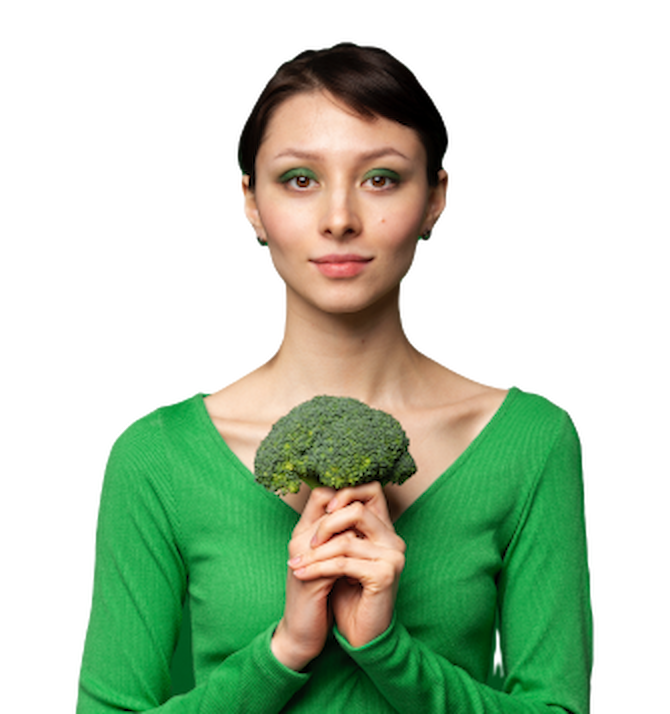
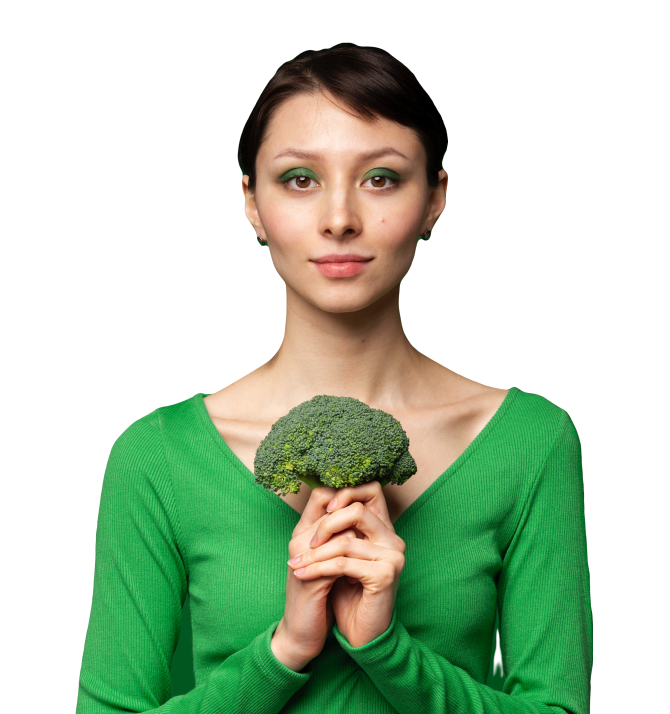
Update 2x img css and <picture>
Чомусь не показується коректно картинка на десктопі

diff --git a/src/partials/we-will-call-you.html b/src/partials/we-will-call-you.html
@@ -1,34 +1,51 @@
-<section class="we-will-call-you container">
-
-  <div class="we-will-container container">
-    <h1 class="we-will-title">Fresh Harvest Box has got you covered</h1>
-    <div class="input-container">
-      <p class="we-will-paragraf">Our boxes are packed with delicious, nutritious vegetables, perfect for anyone looking
-        to eat healthier or support local
-        farmers. Order your box today and start enjoying the best that nature has to offer!</p>
-      <div class="container-input">
-        <form class="we-will-form">
-            <input
-            pattern="10"
-            placeholder="+380 ()" 
-            name="user-tel" 
-            class="we-will-input" 
-            id="user-tel" />
-            <button type="submit"  class="input-button">
-              Recall
-            </button>
-        </form>
+<section class="we-will-call-you">
+  <div class="container we-will-call-youu">
+    <div class="we-will-container container">
+      <h1 class="we-will-title">Fresh Harvest Box has got you covered</h1>
+      <div class="input-container">
+        <p class="we-will-paragraf">Our boxes are packed with delicious, nutritious vegetables, perfect for anyone looking
+          to eat healthier or support local
+          farmers. Order your box today and start enjoying the best that nature has to offer!</p>
+        <div class="container-input">
+          <form class="we-will-form">
+              <input
+              pattern="10"
+              placeholder="+380 ()" 
+              name="user-tel" 
+              class="we-will-input" 
+              id="user-tel" />
+              <button type="submit"  class="input-button">
+                Recall
+              </button>
+          </form>
+        </div>
       </div>
     </div>
+    <picture class="we-will-picture">
+      <source 
+        media="(max-width:767px)"
+        srcset="../img/we-will-call-you/1wwc_girl_mob.png    1x,
+                ../img/we-will-call-you/1x2wwc_girl_mob.png  2x
+                " 
+        width="335"
+        height="357" />
+      <source 
+        media="(min-width:768px) and (max-width:1279px)"
+        srcset="../img/we-will-call-you/2wwc_girl_mob.png   1x,
+                ../img/we-will-call-you/2x2wwc_girl_mob.png 2x
+                " 
+        width="629"
+        height="446" />
+      <source 
+        media="(min-width:1280px)" 
+        srcset="../img/we-will-call-you/3wwc_girl_mob.png   1x,
+                ../img/we-will-call-you/3x2wwc_girl_mob.png 2x
+                " 
+        width="525"
+        height="499" /> 
+      <img 
+      src="../img/we-will-call-you/1wwc_girl_mob.png" class="img-container" 
+      />
+    </picture>
   </div>
-  <picture class="hero-main-picture">
-    <source media="(min-width:320px) and (max-width:767px)"
-      srcset="../img/we-will-call-you/1wwc_girl_mob.png    1x, ../img/we-will-call-you/1x2wwc_girl_mob.png 2x " width="389"
-      height="388" />
-    <source media="(min-width:768px) and (max-width:1279px)"
-      srcset="../img/we-will-call-you/2wwc_girl_mob.png    1x, ../img/we-will-call-you/2x2wwc_girl_mob.png 2x " width="389" height="388" />
-    <source media="(min-width:1280px)" srcset="../img/we-will-call-you/3wwc_girl_mob.png 1x, ../img/we-will-call-you/3x2wwc_girl_mob.png 2x" width="422"
-      height="460" /> <img srcset=" ./img/hero/mobile-img-girl.png    1x, ./img/hero/mobile-img-girl-2x.png 2x "
-      src="./img/hero/mobile-img-girl.png" width="230" height="228" alt="img-girl" class="hero-girl" />
-  </picture>
 </section>

diff --git a/src/css/we-will-call-you.css b/src/css/we-will-call-you.css
@@ -1,4 +1,4 @@
-.we-will-call-you {
+.we-will-call-youu {
   display: flex;
   flex-direction: column;
   align-items: center;
@@ -6,6 +6,7 @@
 
 
 .we-will-container {
+  margin-top: 80px;
   display: flex;
   flex-direction: column;
   justify-content: center;
@@ -73,7 +74,7 @@
   height: 48px;
   position: relative;
   border-radius: 100px;
-    border: 1px solid #141414;
+    border: 1px solid var(--primary-text-color);
     opacity: 0.30000001192092896;
 }
 
@@ -85,6 +86,7 @@
 
 
 .img-container {
+  margin-bottom: 80px;
   padding-top: 31px;
   border-radius: 40px;
   background: #FAF3E7;
@@ -92,28 +94,29 @@
   background-size: 45px 45px;
 }
 
+.we-will-picture {
+  width: 335px;
+}
 
 
 @media screen and (min-width: 320px) and (max-width: 374px) {
   .we-will-input {
     width: 300px;
   }
-
-  .img-container{
+  .we-will-picture {
     width: 300px;
-  }
+}
+
 }
 
 @media screen and (min-width: 768px) and (max-width: 1279px) {
-  .we-will-call-you {
-  }
 
   .we-will-input{
     width: 350px;
   }
   .we-will-container{
     width: 524px;
-    padding-top: 100px;
+    margin-top: 100px;
   }
 
   .we-will-title{
@@ -133,42 +136,33 @@
     margin: 0;
   }
 
-    .img-block{
-      display: none;
-    }
 
-    .img-block3{
-      display: none;
-    }
-    .img-block2 {
+
+    .img-block {
       display: flex;
       justify-content: center;
       align-items: center;
       padding-bottom: 173px;
-    }
+    } 
   
-    .img-container{
-      display: none;
-    }
 
-    .img-container3{
-      display: none;
-    }
-    .img-container2 {
+
+    .img-container {
       padding-top: 17px;
       padding-left: 38px;
       padding-right: 38px;
-      border-radius: 40px;
-      background: #FAF3E7;
-      background-image: radial-gradient(circle at 5px 5px, rgba(161, 196, 135, 0.3) 2.7px, transparent 0);
-      background-size: 45px 45px;
+      margin-bottom: 173px;
     }
 
+
+    .we-will-picture {
+      width: 629px;
+    }
 
 }
 
 @media screen and (min-width: 1280px) {
-  .we-will-call-you{
+  .we-will-call-youu{
     flex-direction: row;
     justify-content: center;
   }
@@ -203,26 +197,23 @@
     justify-content: start;
     align-items: start;
   }
-    .img-block{
-    display: none;
-  }
 
-  .img-block2{
-    display: none;
-  }
-    .img-block3{
+    .img-block{
     display: flex;
     padding: 124px 0;
   }
 
-  .img-container3 {
-  padding-top: 37px;
-  border-radius: 40px;
-    background: #FAF3E7;
-  background-image: radial-gradient(circle at 5px 5px, rgba(161, 196, 135, 0.3) 2.7px, transparent 0);
-  background-size: 45px 45px;
+  .img-container {
+  padding: 0;
+  margin: 124px 0;
+}
+
+.we-will-picture {
+  width: 525px;
 }
 }
+
+
 
 
 
